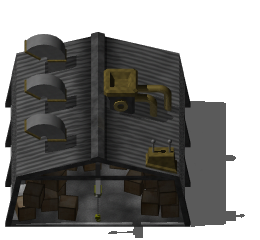
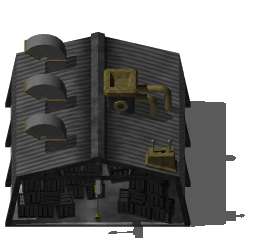
Changed graphics Because of factorio 0.12.18 allowing scrolling inventories made the storage warehouse massive!

diff --git a/Readme.md b/Readme.md
@@ -1,15 +1,85 @@
 Warehousing
----
-Current version 0.0.4
+===
+#### Current version 0.0.5
 
 Word of warning, the warehouses have been changed to 6x6 as per a suggestion, this will make all current warehouses potentially overlap and not come out right ... you have been warned!
 
-Also, increased the number of slots to 220
+Store _all_ the things! (So we heard you like boxes, you pack rat you!)
+
+Soo, Factorio 0.12.18 allowed scroll bars .. this is the result ...
+
+Description
 ---
 Adds 6x6 warehouses that allow you to store a lot of items
-only limted down to 159 because there's not enough space on the screen for all of the slots
 
 Also adds logistic versions (passive provider and storage)
 
-Graphics by Nova Kast, please do not use without permission! (just message me for this if you want)
+You can also attach red and green wires to the warehouses much like smart chests, and they'll attach to the correct points on the corner of the logistics warehouses
+
+Graphics by **Nova Kast**, **please do not use without permission!** (just message me for this if you want)
 Also with shadows
+
+---
+
+1. Basic warehouses: 800 slots
+![Basic Warehouse][warehouse-basic]
+2. Storage warehouse: 2000 slots
+![Storage Warehouse][warehouse-storage]
+
+3. Passive provider warehouse: 800 slots
+![Passive provider warehouse][warehouse-passive-provider]
+4. Active provider warehouse: 800 slots
+![Active provider warehouse][warehouse-active-provider]
+5. Requester warehouse: 800 slots
+![Requester warehouse][warehouse-requester]
+
+Recipies
+---
+    
+* Basic warehouse
+  Item|Qty
+  ---|---:
+  Steel plates | 60
+  Iron plates | 100
+  Stone bricks | 25
+  Wooden chests | 10
+
+* Storage warehouse:
+  Item|Qty
+  ---|---:
+  Basic warehouse|1
+  Iron plates|20
+  Storage logistic chest|1
+  Advanced circuits|5
+  Steel Chests|15
+
+* Passive provider warehouse:
+  Item|Qty
+  ---|---:
+  Basic warehouse|1
+  Iron plates|20
+  Passive provider logistic chest|1
+  Advanced circuits|5
+
+* Active provider warehouse:
+  Item|Qty
+  ---|---:
+  Basic warehouse|1
+  Iron plates|20
+  Active provider logistic chest|1
+  Advanced circuits|5
+
+* Requester warehouse:
+  Item|Qty
+  ---|---:
+  Basic warehouse|1
+  Iron plates|20
+  Requester logistic chest|1
+  Advanced circuits|5
+
+[warehouse-basic]:https://raw.githubusercontent.com/Anoyomouse/Warehousing/master/graphics/entity/warehouse-basic-shadow.png
+[warehouse-storage]:https://raw.githubusercontent.com/Anoyomouse/Warehousing/master/graphics/entity/warehouse-storage-shadow.png
+[warehouse-passive-provider]:https://raw.githubusercontent.com/Anoyomouse/Warehousing/master/graphics/entity/warehouse-passive-provider-shadow.png
+[warehouse-active-provider]:https://raw.githubusercontent.com/Anoyomouse/Warehousing/master/graphics/entity/warehouse-active-provider-shadow.png
+[warehouse-requester]:https://raw.githubusercontent.com/Anoyomouse/Warehousing/master/graphics/entity/warehouse-requester-shadow.png
+
